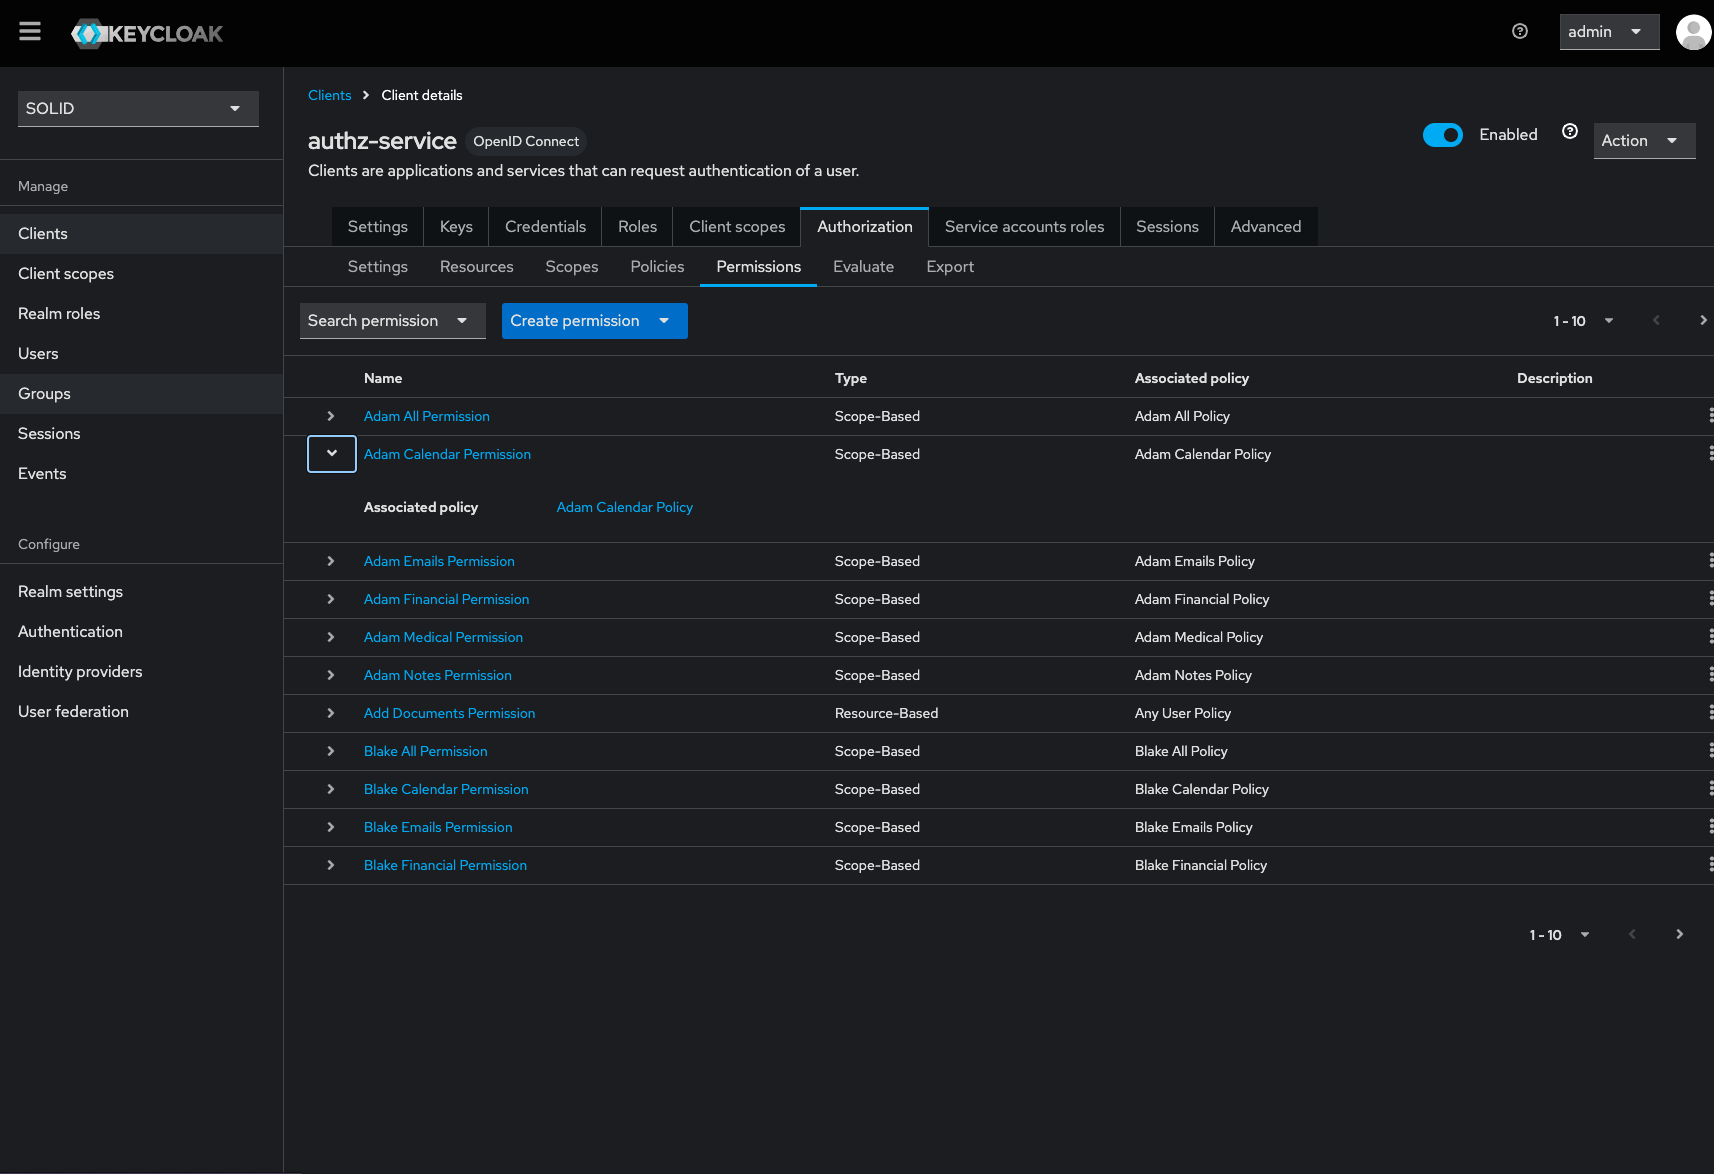
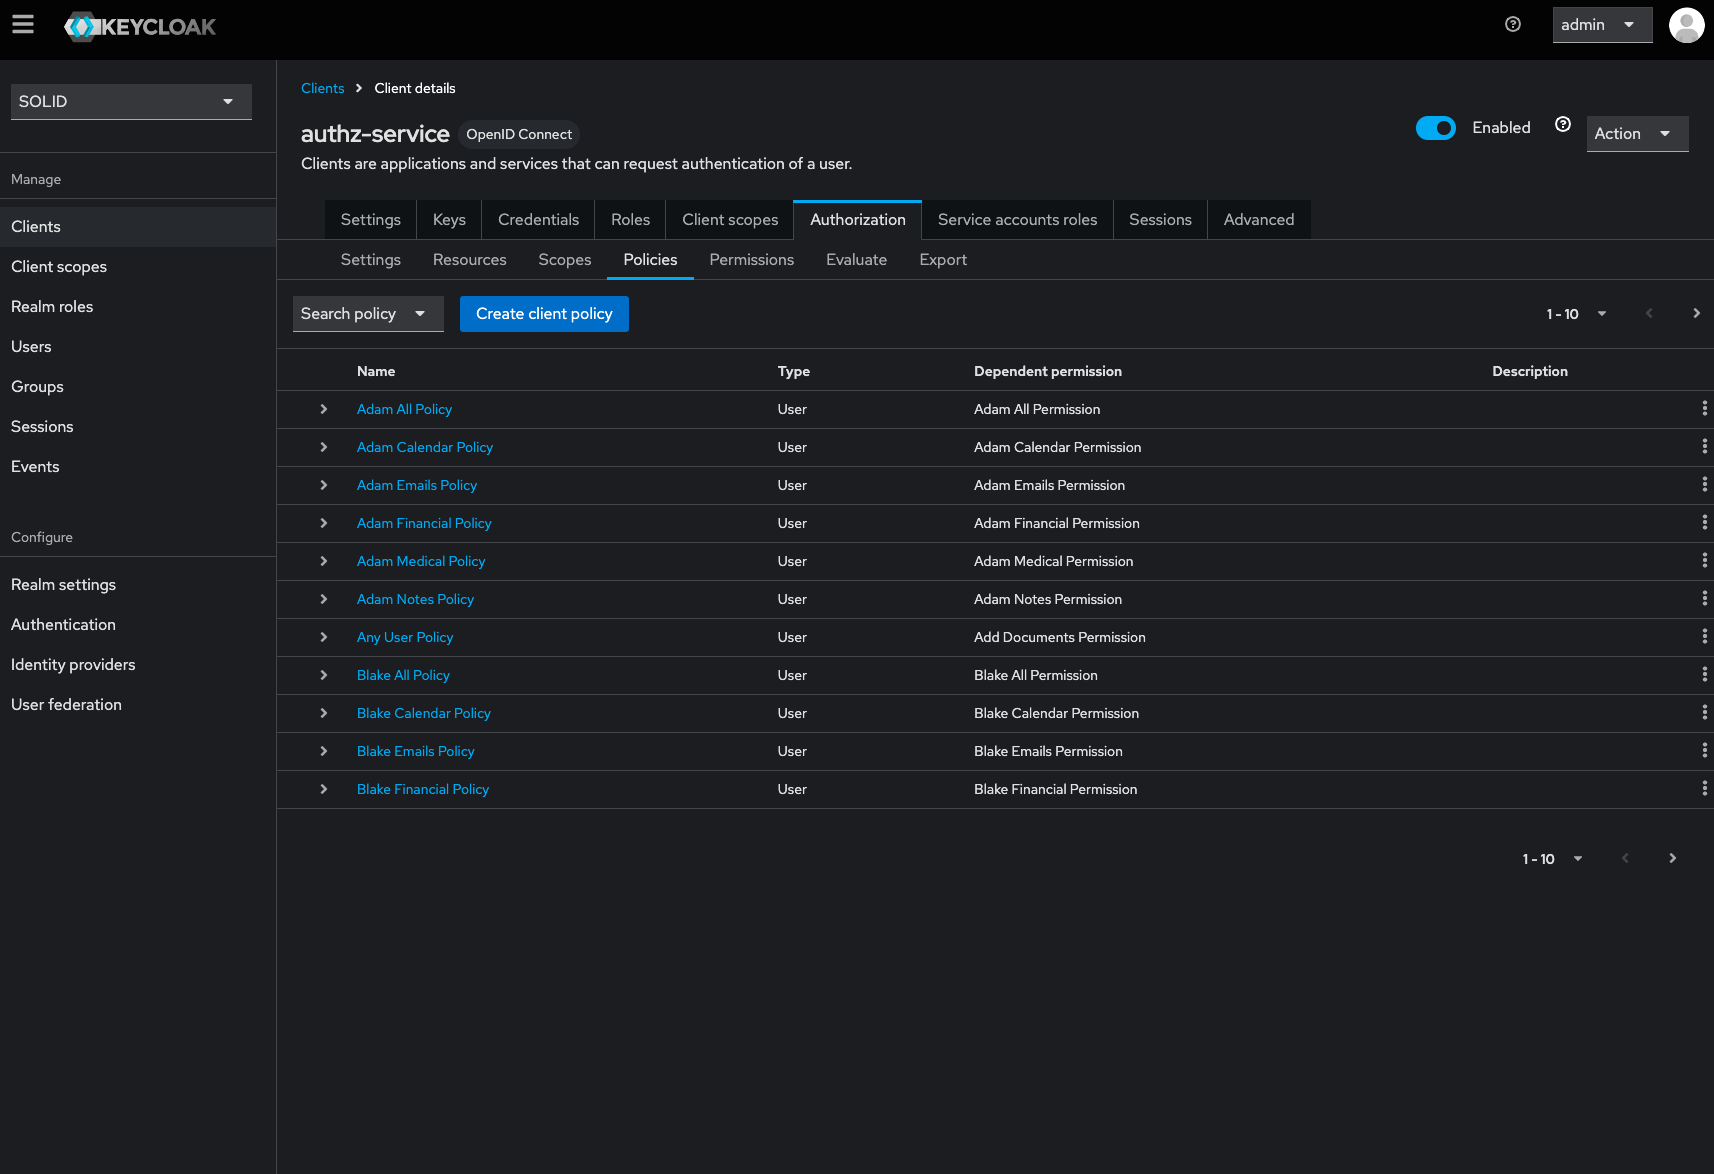
feat: update policies docs

diff --git a/documentation/docs/policies/scopes-and-policies.md b/documentation/docs/policies/scopes-and-policies.md
@@ -4,17 +4,33 @@ sidebar_position: 1
 
 # Scopes, Policies and Permissions
 
-## Permissions
+In this setup the policies, scopes, permissions and resources are automatically created on startup of the Keycloak service. These are all focused on the use cases of our 3 personae (see [Introduction](../intro.md)).
+For each of these users policies are created on diffent types of their personal data. The following if an overview of all the different policies that are created to access the data of Adam.
 
-![Keycloak permissions overview](./img/keycloak_permissions.png)
-*Keycloak permissions overview of Authz-service*
+    * `calendar-adam@psx.be`: Access to Adam's calendar.
+    * `financial-adam@psx.be`: Access to Adam's financial information.
+    * `medical-adam@psx.be`: Accesss to Adam's medical information.
+    * `emails-adam@psx.be`: Access to Adam's e-mails.
+    * `notes-adam@psx.be`: Access to Adam's notes and todos.
 
-## Policies
-
-![Keycloak policies overview](./img/keycloak_policies.png)
-*Keycloak policies overview of Authz-service*
+All these different policies wil be created for each user. By default users have access on each other calendar, but not on any of the other types.
 
 ## Scopes
 
+Scopes can be added to create a link between permissions/policies and resources for certain users. The scopes should be created first and will be used in the later steps when adding policies and permissions.
+
 ![Keycloak scopes overview](./img/keycloak_scopes.png)
 *Keycloak scopes overview of Authz-service*
+
+## Policies
+
+**TODO**
+![Keycloak policies overview](./img/keycloak_policies.png)
+*Keycloak policies overview of Authz-service*
+
+## Permissions
+
+Permissions are scope-based to reflect the actual permissions of a user on a certain scope and policy. Permissions are linked to the policies.
+
+![Keycloak permissions overview](./img/keycloak_permissions.png)
+*Keycloak permissions overview of Authz-service*

diff --git a/documentation/docs/policies/resources.md b/documentation/docs/policies/resources.md
@@ -5,7 +5,7 @@ sidebar_position: 2
 # Resources
 
 The Keycloak resources can be configured for each client (`authz-service` in this setup).
-The resources are configured with certain scopes and permissions. 
+The resources are configured with certain scopes and permissions (see [Policies, Scopes and Permissions](./scopes-and-policies.md))
 
 ![Keycloak resources overview](./img/keycloak_resources_overview.png)
 *Keycloak resource overview of Authz-service*
